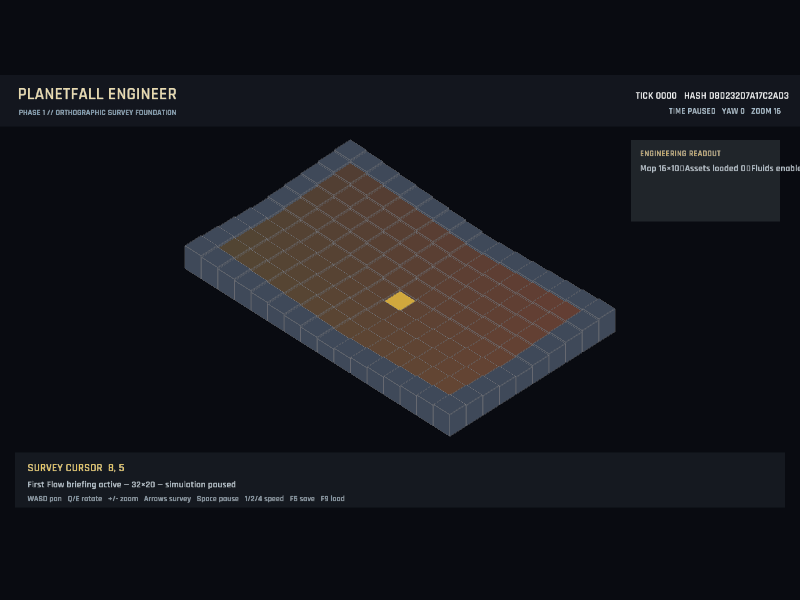
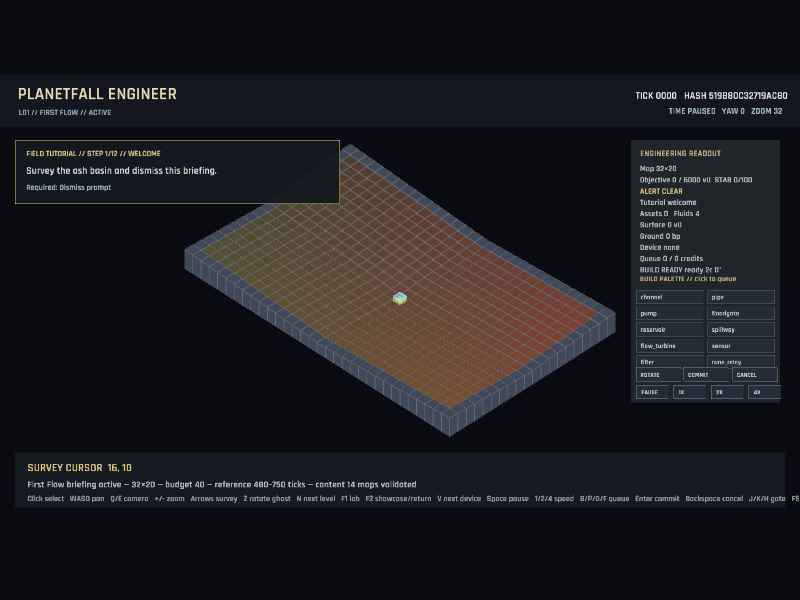
The surveyor can set time with the panel at any scale (clickable time controls)
The build panel now exposes Pause, 1X, 2X, and 4X mouse controls through the same fixed-tick admission path as keyboard input. Reference and 800x600 captures prove the time row and placement loop remain accessible in the required viewport sizes.

diff --git a/src/game_build.rs b/src/game_build.rs
@@ -1,6 +1,7 @@
 //! Mouse and keyboard build-palette actions.
 
 use crate::game::Game;
+use crate::state::TimeControl;
 use crate::{devices::DeviceId, ui};
 use macroquad::prelude::*;
 
@@ -40,6 +41,28 @@ impl Game {
         } else {
             self.cancel_build_plan();
         }
+        true
+    }
+
+    pub(crate) fn handle_time_click(&mut self) -> bool {
+        let (mouse_x, mouse_y) = mouse_position();
+        let scale_x = screen_width() / ui::LOGICAL_WIDTH;
+        let scale_y = screen_height() / ui::LOGICAL_HEIGHT;
+        let x = mouse_x / scale_x;
+        let y = mouse_y / scale_y;
+        if !(1018.0..1250.0).contains(&x) || !(496.0..522.0).contains(&y) {
+            return false;
+        }
+        let time = if x < 1076.0 {
+            TimeControl::Paused
+        } else if x < 1136.0 {
+            TimeControl::OneX
+        } else if x < 1196.0 {
+            TimeControl::TwoX
+        } else {
+            TimeControl::FourX
+        };
+        self.set_time(time);
         true
     }
 

diff --git a/src/ui.rs b/src/ui.rs
@@ -105,7 +105,7 @@ pub fn draw_hud(ctx: UiContext<'_>) {
         1010.0,
         104.0,
         238.0,
-        392.0,
+        420.0,
         Color::new(0.04, 0.06, 0.09, 0.9),
     );
     draw_ui_text_ex(
@@ -290,6 +290,21 @@ pub fn draw_hud(ctx: UiContext<'_>) {
             label,
             x + 7.0,
             483.0,
+            TextStyle::new(10.0, Color::new(0.82, 0.87, 0.9, 1.0)).params(),
+        );
+    }
+    for (x, label) in [
+        (1018.0, "PAUSE"),
+        (1078.0, "1X"),
+        (1138.0, "2X"),
+        (1198.0, "4X"),
+    ] {
+        draw_rectangle(x, 496.0, 52.0, 22.0, Color::new(0.12, 0.16, 0.2, 0.98));
+        draw_rectangle_lines(x, 496.0, 52.0, 22.0, 1.0, Color::new(0.45, 0.55, 0.62, 0.9));
+        draw_ui_text_ex(
+            label,
+            x + 8.0,
+            511.0,
             TextStyle::new(10.0, Color::new(0.82, 0.87, 0.9, 1.0)).params(),
         );
     }

diff --git a/src/game.rs b/src/game.rs
@@ -191,6 +191,7 @@ impl Game {
         if is_mouse_button_pressed(MouseButton::Left)
             && !self.handle_palette_click()
             && !self.handle_build_action_click()
+            && !self.handle_time_click()
         {
             self.select_from_pointer();
         }
@@ -561,7 +562,7 @@ impl Game {
         self.notice = format!("{} {reason}", id.name());
     }
 
-    fn set_time(&mut self, time: TimeControl) {
+    pub(crate) fn set_time(&mut self, time: TimeControl) {
         let command = if time == TimeControl::Paused {
             CommandKind::SetPaused
         } else {

diff --git a/README.md b/README.md
@@ -165,6 +165,8 @@ device entity and directional behavior. The readout shows its cost and
 `READY`/`BLOCKED` reason for bounds, protection, overlap, or budget before queue.
 Visible `ROTATE`, `COMMIT`, and `CANCEL` buttons mirror the keyboard actions so
 the core placement loop is fully mouse-reachable.
+Visible `PAUSE`, `1X`, `2X`, and `4X` buttons likewise drive the fixed-tick time
+controls at the reference and 800×600 viewport sizes.
 Verification maps expose their current PASS/FAIL result, exact balance error,
 and compact injected/drained/reacted/product ledger in the readout. F6 resets
 the active lab or device fixture and F8 advances exactly one verification tick

diff --git a/docs/09_QUALITY_GATES.md b/docs/09_QUALITY_GATES.md
@@ -123,6 +123,9 @@ The HUD provides the selected device cost and a text validity reason, while a
 blocked preview changes to a red ghost and remains non-committable.
 The palette's visible Rotate, Commit, and Cancel buttons share the scaled mouse
 regions used by the keyboard-equivalent commands.
+The time-control row exposes Pause, 1X, 2X, and 4X through the same scaled
+mouse interaction path; the gameplay evidence includes both 1280×720 and
+800×600 views.
 
 L01 renders each incomplete tutorial step as a field prompt with an instruction
 and required action; the prompt disappears only after the authoritative event
